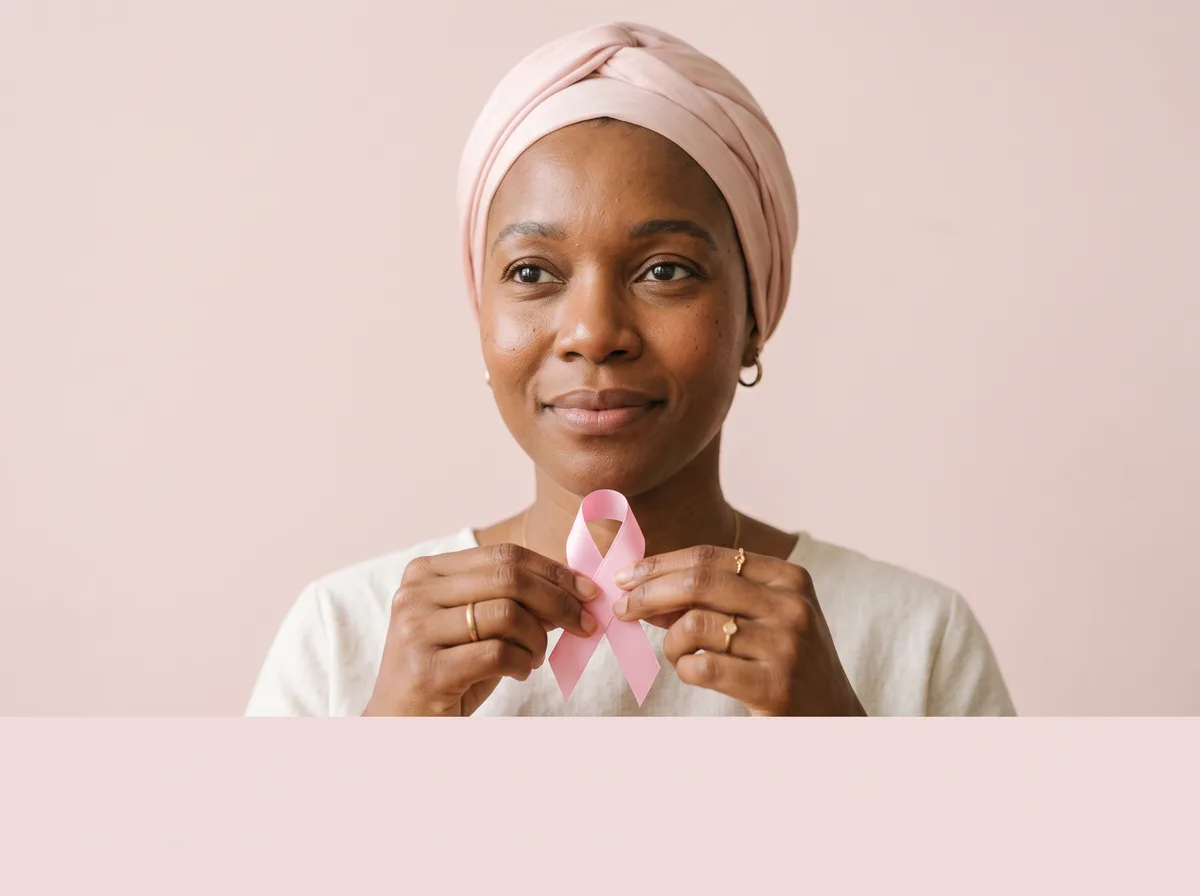
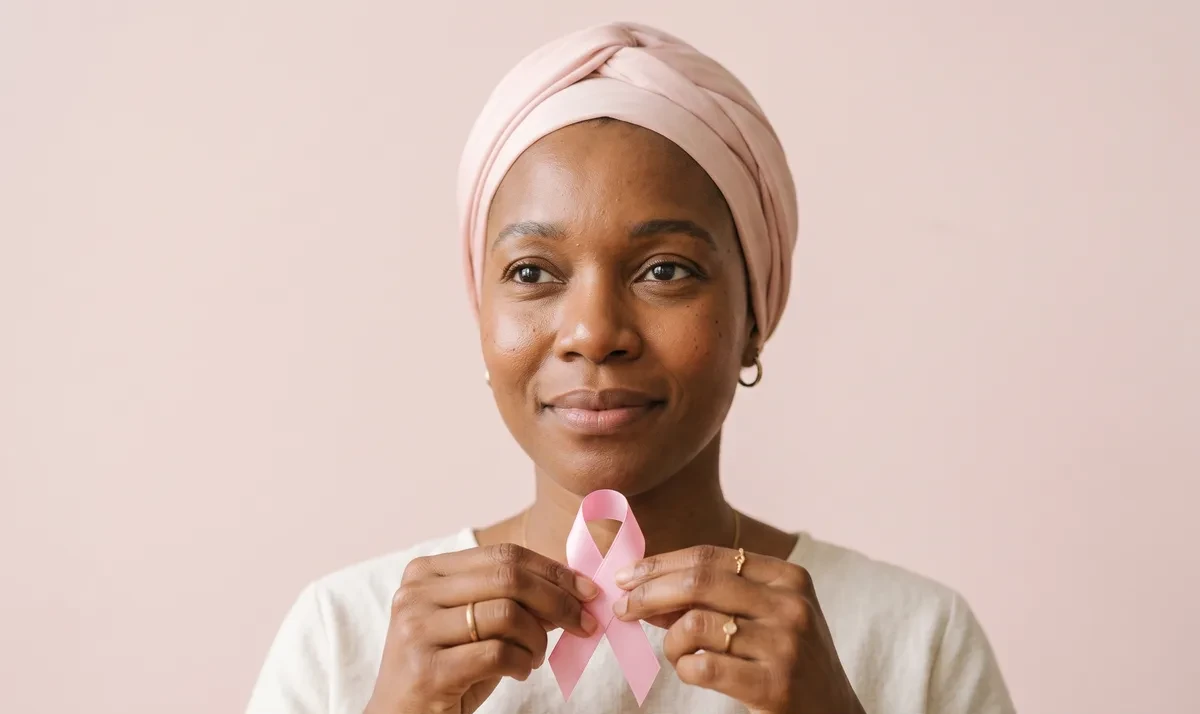
Livraison gratuite dès 25 000 FCFA (seuil centralisé), bannière Octobre rose mobile sans bande

diff --git a/src/data/home.ts b/src/data/home.ts
@@ -1,4 +1,5 @@
 import type { ArtShape, Tone } from "@/types/catalog";
+import { seuilLivraisonTexte } from "./site";
 
 /** Textes et visuels éditoriaux de la homepage (hors catalogue). */
 
@@ -8,7 +9,7 @@ export const hero = {
   subtitle: "Soins, dermatologie, beauté et bien-être, au service de toute la famille.",
   subtitleMobile: "Beauté, santé, hygiène et bien-être au quotidien.",
   primary: { label: "DÉCOUVRIR NOS PRODUITS →", href: "/boutique" },
-  chips: ["Produits authentiques", "Conseils d'experts", "Livraison rapide", "Paiement sécurisé"],
+  chips: ["Produits authentiques", "Conseils d'experts", "Livraison gratuite", "Paiement sécurisé"],
   /** Images actuelles, conservées comme placeholders. */
   imageDesktop: "/images/hero-famille-desktop.jpg",
   imageMobile: "/images/hero-famille-desktop.jpg",
@@ -79,7 +80,7 @@ export const univers: Univers[] = [
 
 /** Bande de réassurance (le seuil de livraison est un exemple à valider avec le client). */
 export const trustStrip = [
-  { icon: "truck", title: "Livraison rapide", text: "Dès 25 000 FCFA d'achat" },
+  { icon: "truck", title: "Livraison gratuite", text: seuilLivraisonTexte },
   { icon: "lock", title: "Paiement sécurisé", text: "Mobile Money et carte bancaire" },
   { icon: "chat", title: "Conseils d'experts", text: "Une équipe à votre écoute" },
 ] as const;

diff --git a/src/data/site.ts b/src/data/site.ts
@@ -1,5 +1,9 @@
 import type { NavItem } from "@/types/catalog";
 
+/** Montant d'achat à partir duquel la livraison est gratuite : à changer ici uniquement. */
+export const seuilLivraisonGratuite = 25000;
+export const seuilLivraisonTexte = `À partir de ${seuilLivraisonGratuite.toString().replace(/\B(?=(\d{3})+(?!\d))/g, " ")} FCFA d'achat`;
+
 export const announcements = [
   "Livraison au Bénin & à l'international",
   "Paiement par Mobile Money et carte bancaire",
@@ -18,7 +22,7 @@ export const mainNav: NavItem[] = [
 ];
 
 export const trustItems = [
-  { icon: "truck", title: "Livraison rapide", text: "Au Bénin et à l'international." },
+  { icon: "truck", title: "Livraison gratuite", text: seuilLivraisonTexte },
   { icon: "badge", title: "Produits authentiques", text: "Une sélection vérifiée." },
   { icon: "chat", title: "Conseils & service client", text: "Une équipe à votre écoute." },
   { icon: "lock", title: "Paiement sécurisé", text: "Mobile Money et carte bancaire." },

diff --git a/src/components/PromoBanners.tsx b/src/components/PromoBanners.tsx
@@ -17,7 +17,7 @@ export default function PromoBanners() {
           >
             {/* mobile : image en haut */}
             <div className="relative aspect-[4/3] w-full lg:hidden">
-              <Image src={b.imageMobile} alt="" fill quality={90} sizes="100vw" className="object-cover" />
+              <Image src={b.imageMobile} alt="" fill quality={90} sizes="100vw" className="object-cover object-[center_20%]" />
             </div>
             {/* desktop : image à droite, fondu à gauche */}
             <div className="absolute right-0 top-0 hidden h-full w-[62%] [mask-image:linear-gradient(to_right,transparent_0%,#000_34%)] lg:block">
